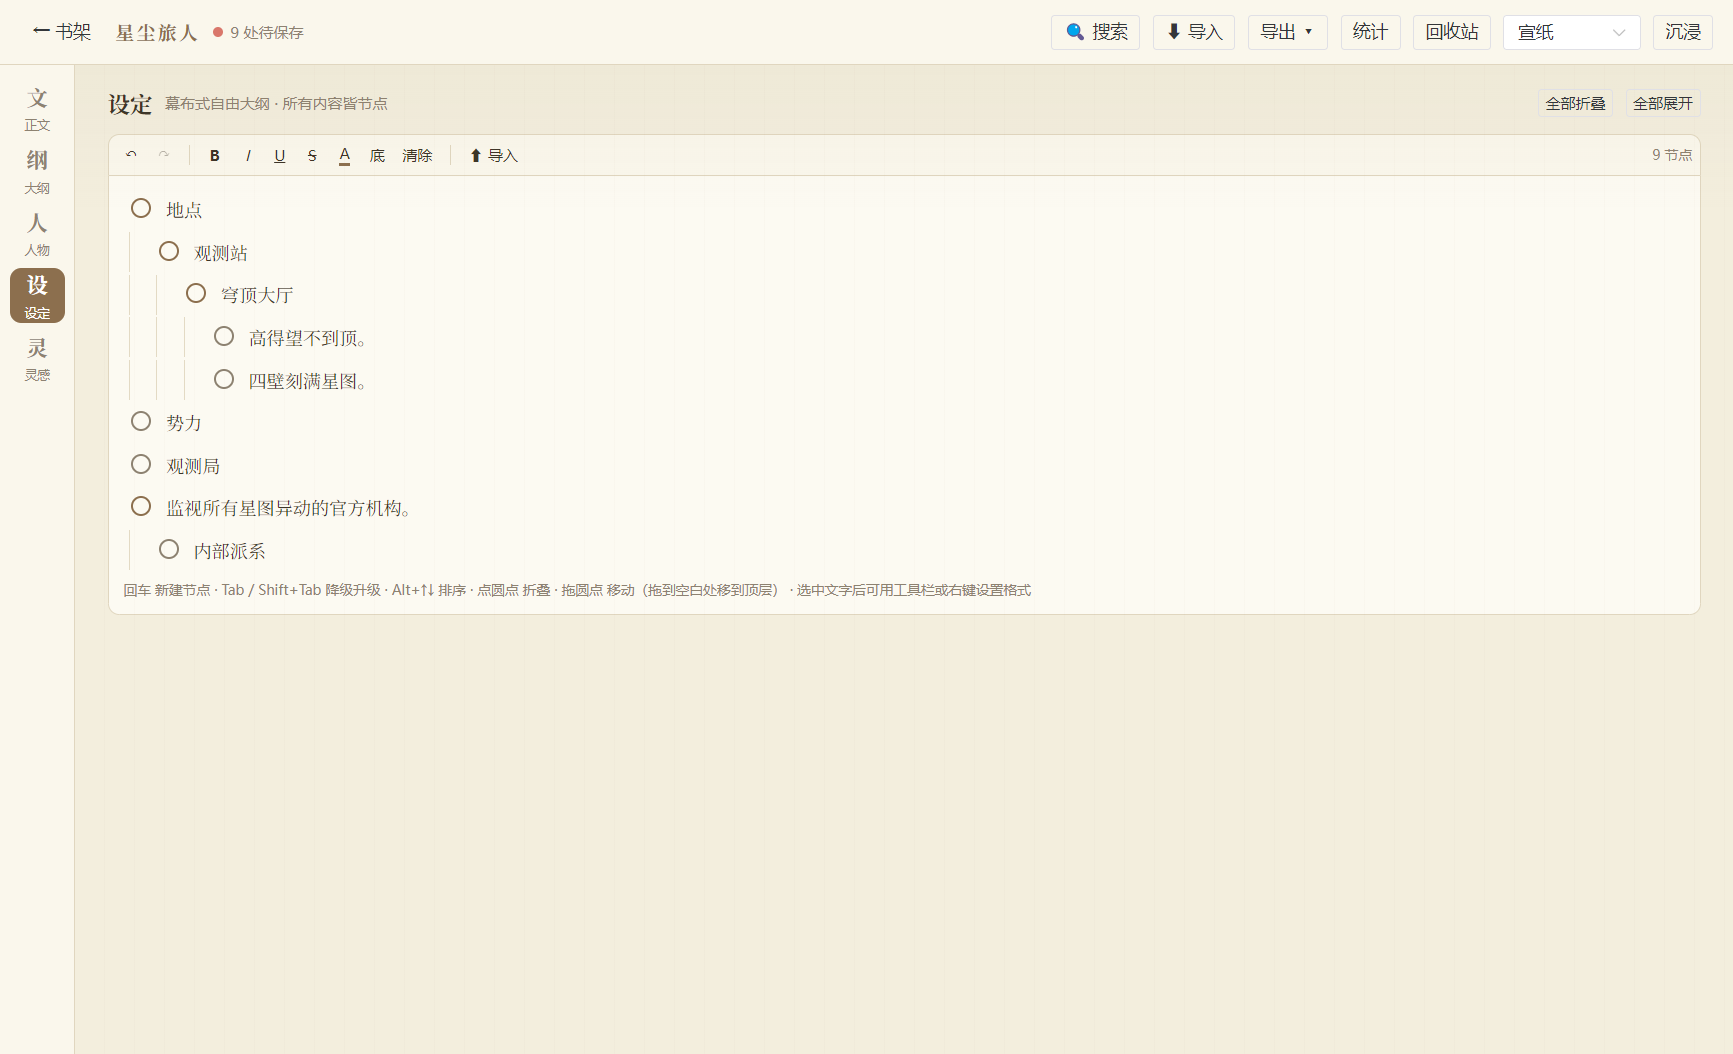
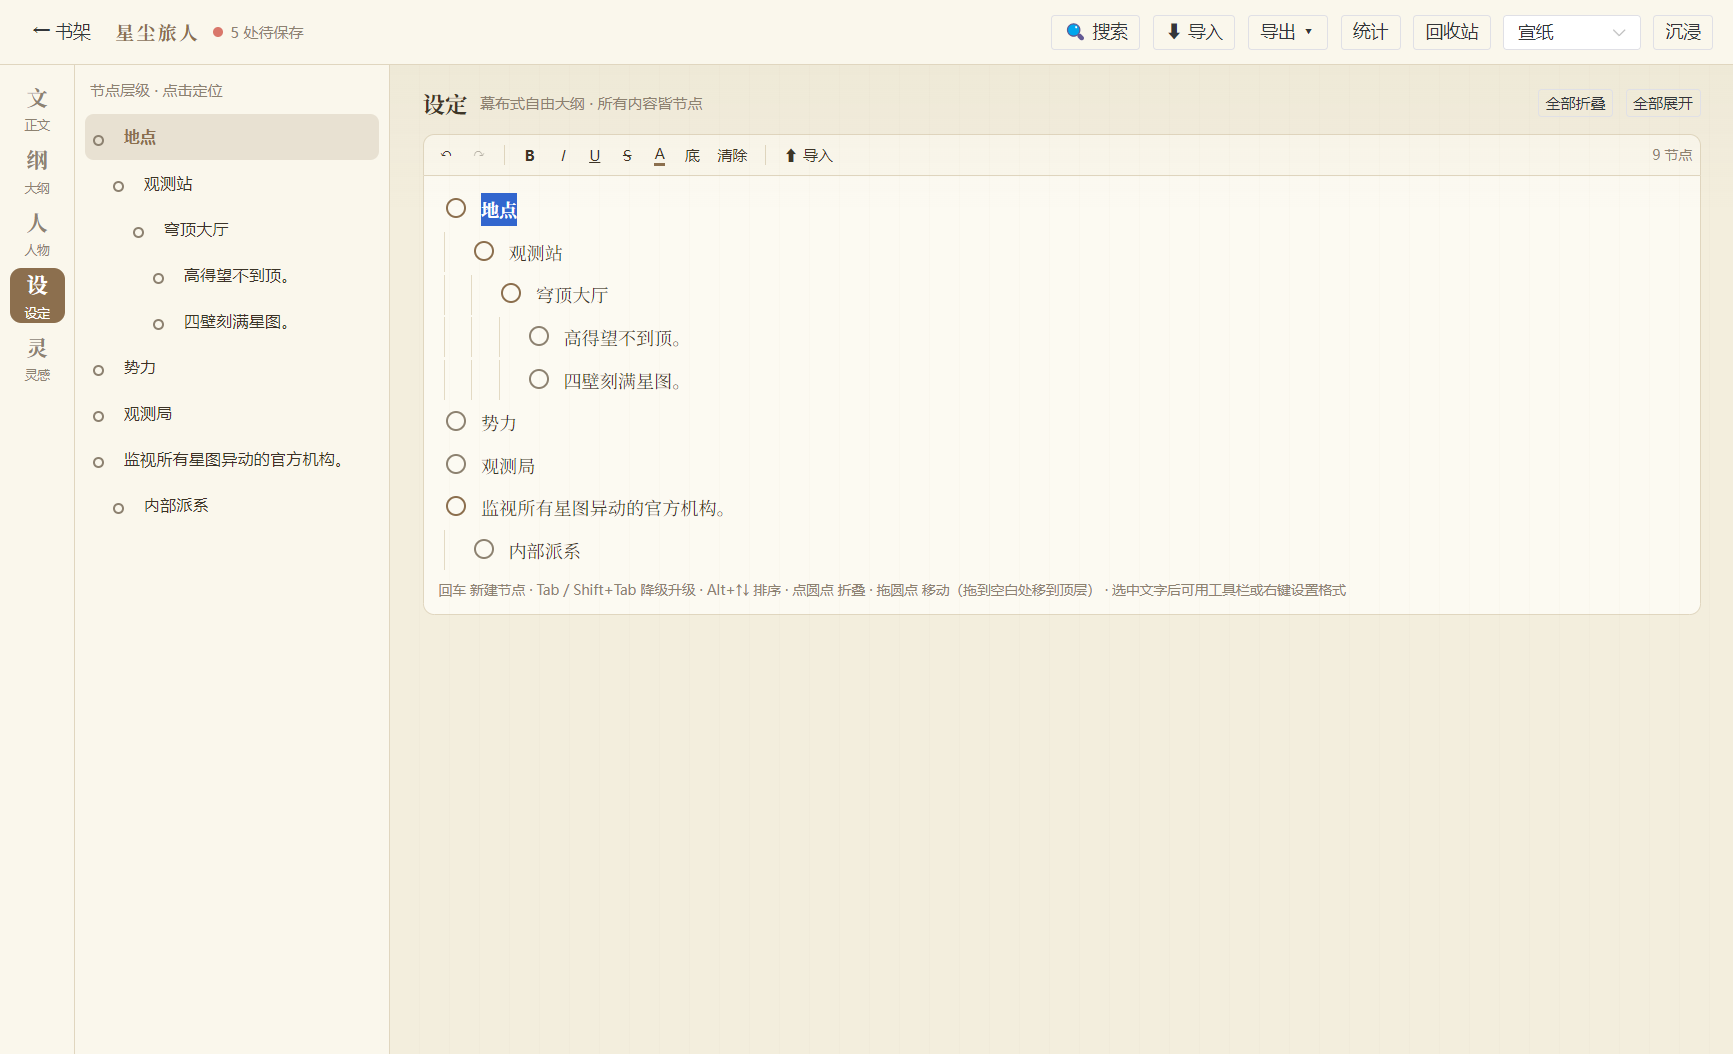
v0.3.1：设定模块侧边栏（节点层级树/点击定位/双向高亮）+ 右键菜单对齐正文（选区保持/剪贴板快捷项）

diff --git a/src/components/MubuView.vue b/src/components/MubuView.vue
@@ -211,6 +211,7 @@ onUpdated(syncAll)
 function onTextFocus(e) {
   const row = e.currentTarget.closest('[data-node]')
   focusedId.value = row?.dataset.node || null
+  ui.mubuSelectedId = row?.dataset.node?.slice(2) || null
 }
 
 /* ---------- 编辑操作 ---------- */
@@ -522,11 +523,15 @@ function onRowCtx(row, e) {
     const range = document.caretRangeFromPoint(e.clientX, e.clientY)
     if (range && rootEl.value?.contains(range.startContainer)) {
       const sel = window.getSelection()
-      sel.removeAllRanges()
-      const r = document.createRange()
-      r.setStart(range.startContainer, range.startOffset)
-      r.collapse(true)
-      sel.addRange(r)
+      // 与正文一致：右键点落在非空选区内 → 保持选区（格式作用于选中文字）；否则光标移到右键处
+      const keep = sel.rangeCount > 0 && !sel.isCollapsed && sel.getRangeAt(0).intersectsNode(range.startContainer)
+      if (!keep) {
+        sel.removeAllRanges()
+        const r = document.createRange()
+        r.setStart(range.startContainer, range.startOffset)
+        r.collapse(true)
+        sel.addRange(r)
+      }
     }
   } catch {
     /* ignore */
@@ -537,6 +542,40 @@ function onRowCtx(row, e) {
   ctx.rowId = row.node.id
   ctx.folded = !!row.node.fold
   ctx.hasChildren = hasChildren(row.node)
+}
+function selectionText() {
+  const sel = window.getSelection()
+  return sel && !sel.isCollapsed ? sel.toString() : ''
+}
+function doCutText() {
+  const t = selectionText()
+  if (!t) return closeCtx()
+  window.native?.clipboardWriteText?.(t)
+  document.execCommand('delete')
+  syncFocusedRow()
+  closeCtx()
+  ver.value++
+}
+function doCopyText() {
+  const t = selectionText()
+  if (!t) return closeCtx()
+  window.native?.clipboardWriteText?.(t)
+  closeCtx()
+}
+async function doPastePlain() {
+  let t = ''
+  try {
+    t = (await window.native?.clipboardReadText?.()) || ''
+  } catch {
+    t = ''
+  }
+  if (t) {
+    pushUndo()
+    document.execCommand('insertText', false, t)
+    syncFocusedRow()
+  }
+  closeCtx()
+  ver.value++
 }
 function closeCtx() {
   ctx.open = false
@@ -651,14 +690,13 @@ onBeforeUnmount(() => {
       <div class="ob-tip">回车 新建节点 · Tab / Shift+Tab 降级升级 · Alt+↑↓ 排序 · 点圆点 折叠 · 拖圆点 移动（拖到空白处移到顶层） · 选中文字后可用工具栏或右键设置格式</div>
 
       <div v-if="ctx.open" class="ob-ctx" :style="{ left: ctx.x + 'px', top: ctx.y + 'px' }" @contextmenu.prevent>
-        <div class="ctx-item" @mousedown.prevent @click="runCtx(() => copyNode(visible.find((r) => r.node.id === ctx.rowId)))"><span>复制节点</span></div>
-        <div class="ctx-item" @mousedown.prevent @click="runCtx(() => copyNode(visible.find((r) => r.node.id === ctx.rowId), true))"><span>剪切节点</span></div>
-        <div class="ctx-item" :class="{ disabled: !clip }" @mousedown.prevent @click="!clip && runCtx(() => pasteClip(false))"><span>粘贴为同级</span></div>
-        <div class="ctx-item" :class="{ disabled: !clip }" @mousedown.prevent @click="!clip && runCtx(() => pasteClip(true))"><span>粘贴为子节点</span></div>
+        <div class="ctx-item" :class="{ disabled: !selectionText() }" @mousedown.prevent @click="doCutText()"><span>剪切</span><span class="hint">Ctrl+X</span></div>
+        <div class="ctx-item" :class="{ disabled: !selectionText() }" @mousedown.prevent @click="doCopyText()"><span>复制</span><span class="hint">Ctrl+C</span></div>
+        <div class="ctx-item" @mousedown.prevent @click="doPastePlain()"><span>粘贴为纯文本</span><span class="hint">Ctrl+V</span></div>
         <div class="ctx-sep" />
         <div class="ctx-item" @mousedown.prevent @click="runCtx(() => fmt('bold'))"><span>加粗</span><span class="hint">Ctrl+B</span></div>
-        <div class="ctx-item" @mousedown.prevent @click="runCtx(() => fmt('italic'))"><span>斜体</span></div>
-        <div class="ctx-item" @mousedown.prevent @click="runCtx(() => fmt('underline'))"><span>下划线</span></div>
+        <div class="ctx-item" @mousedown.prevent @click="runCtx(() => fmt('italic'))"><span>斜体</span><span class="hint">Ctrl+I</span></div>
+        <div class="ctx-item" @mousedown.prevent @click="runCtx(() => fmt('underline'))"><span>下划线</span><span class="hint">Ctrl+U</span></div>
         <div class="ctx-item" @mousedown.prevent @click="runCtx(() => fmt('strikeThrough'))"><span>删除线</span></div>
         <div class="ob-ctx-colors" @mousedown.prevent>
           <span style="font-size: 11px; color: var(--text-dim)">颜色</span>
@@ -672,8 +710,13 @@ onBeforeUnmount(() => {
         <div class="ctx-sep" />
         <div class="ctx-item" @mousedown.prevent @click="runCtx(() => indent(visible.find((r) => r.node.id === ctx.rowId)))"><span>降级</span><span class="hint">Tab</span></div>
         <div class="ctx-item" @mousedown.prevent @click="runCtx(() => outdent(visible.find((r) => r.node.id === ctx.rowId)))"><span>升级</span><span class="hint">Shift+Tab</span></div>
-        <div class="ctx-item" @mousedown.prevent @click="runCtx(() => moveRow(visible.find((r) => r.node.id === ctx.rowId), -1))"><span>上移</span></div>
-        <div class="ctx-item" @mousedown.prevent @click="runCtx(() => moveRow(visible.find((r) => r.node.id === ctx.rowId), 1))"><span>下移</span></div>
+        <div class="ctx-item" @mousedown.prevent @click="runCtx(() => moveRow(visible.find((r) => r.node.id === ctx.rowId), -1))"><span>上移</span><span class="hint">Alt+↑</span></div>
+        <div class="ctx-item" @mousedown.prevent @click="runCtx(() => moveRow(visible.find((r) => r.node.id === ctx.rowId), 1))"><span>下移</span><span class="hint">Alt+↓</span></div>
+        <div class="ctx-sep" />
+        <div class="ctx-item" @mousedown.prevent @click="runCtx(() => copyNode(visible.find((r) => r.node.id === ctx.rowId)))"><span>复制节点</span></div>
+        <div class="ctx-item" @mousedown.prevent @click="runCtx(() => copyNode(visible.find((r) => r.node.id === ctx.rowId), true))"><span>剪切节点</span></div>
+        <div class="ctx-item" :class="{ disabled: !clip }" @mousedown.prevent @click="!clip && runCtx(() => pasteClip(false))"><span>粘贴为同级</span></div>
+        <div class="ctx-item" :class="{ disabled: !clip }" @mousedown.prevent @click="!clip && runCtx(() => pasteClip(true))"><span>粘贴为子节点</span></div>
         <div class="ctx-sep" />
         <div class="ctx-item" @mousedown.prevent @click="runCtx(() => addSibling(visible.find((r) => r.node.id === ctx.rowId)))"><span>新建同级节点</span></div>
         <div class="ctx-item" @mousedown.prevent @click="runCtx(() => addChild(visible.find((r) => r.node.id === ctx.rowId)))"><span>新建子节点</span></div>

diff --git a/src/components/MubuTree.vue b/src/components/MubuTree.vue
@@ -1,0 +1,61 @@
+<script setup>
+import { computed } from 'vue'
+import { useWorkStore } from '../stores/work'
+import { useUiStore } from '../stores/ui'
+
+const work = useWorkStore()
+const ui = useUiStore()
+
+const visible = computed(() => {
+  const live = work.liveMubu()
+  const byParent = new Map()
+  for (const n of live) {
+    const p = n.parentId || null
+    if (!byParent.has(p)) byParent.set(p, [])
+    byParent.get(p).push(n)
+  }
+  const out = []
+  const walk = (list, depth) => {
+    for (const n of list) {
+      out.push({ node: n, depth })
+      if (!n.fold) walk(byParent.get(n.id) || [], depth + 1)
+    }
+  }
+  walk(byParent.get(null) || [], 0)
+  return out
+})
+
+function select(n) {
+  ui.loreFocusId = n.id
+}
+function isActive(n) {
+  return ui.mubuSelectedId === n.id || ui.loreFocusId === n.id
+}
+</script>
+
+<template>
+  <div style="display: flex; flex-direction: column; height: 100%">
+    <div class="side-head">
+      <span style="font-size: 12px; color: var(--text-dim)">节点层级 · 点击定位</span>
+    </div>
+    <div class="side-list">
+      <div
+        v-for="r in visible"
+        :key="r.node.id"
+        class="side-item"
+        :class="{ active: isActive(r.node) }"
+        :style="{ paddingLeft: 6 + r.depth * 16 + 'px' }"
+        role="button"
+        tabindex="0"
+        @click="select(r.node)"
+        @keydown.enter="select(r.node)"
+      >
+        <span class="ob-dot" :class="{ folded: r.node.fold }" />
+        <span style="overflow: hidden; text-overflow: ellipsis; white-space: nowrap">{{ r.node.text || '（空）' }}</span>
+      </div>
+      <p v-if="!visible.length" style="font-size: 12px; color: var(--text-dim); padding: 10px">
+        设定库为空。在右侧输入内容，回车新建节点。
+      </p>
+    </div>
+  </div>
+</template>

diff --git a/src/components/Workbench.vue b/src/components/Workbench.vue
@@ -14,6 +14,7 @@ import EditorPane from './EditorPane.vue'
 import OutlineCenter from './OutlineCenter.vue'
 import CharacterCenter from './CharacterCenter.vue'
 import MubuView from './MubuView.vue'
+import MubuTree from './MubuTree.vue'
 import SnippetCenter from './SnippetCenter.vue'
 import RightPanel from './RightPanel.vue'
 
@@ -134,10 +135,11 @@ onBeforeUnmount(() => window.removeEventListener('keydown', onKeydown))
         </div>
       </div>
 
-      <div v-if="!ui.focusMode && work.tab !== 'lore'" class="side-panel">
+      <div v-if="!ui.focusMode" class="side-panel">
         <ChapterTree v-if="work.tab === 'chapters'" />
         <OutlineList v-else-if="work.tab === 'outline'" />
         <CharacterList v-else-if="work.tab === 'characters'" />
+        <MubuTree v-else-if="work.tab === 'lore'" />
         <SnippetList v-else-if="work.tab === 'snippets'" />
       </div>
 

diff --git a/src/styles/themes.css b/src/styles/themes.css
@@ -1009,6 +1009,19 @@ body,
 .ob-row {
   transition: background 0.15s;
 }
+.ob-dot {
+  flex: none;
+  width: 9px;
+  height: 9px;
+  border-radius: 50%;
+  border: 2px solid var(--text-dim);
+  margin-right: 8px;
+  margin-top: 5px;
+}
+.ob-dot.folded {
+  background: var(--accent);
+  border-color: var(--accent);
+}
 .ob-kind {
   flex: none;
   margin-left: 8px;

diff --git a/src/stores/ui.js b/src/stores/ui.js
@@ -16,6 +16,7 @@ export const useUiStore = defineStore('ui', {
     focusMode: false,
     dbError: false,
     loreFocusId: null,
+    mubuSelectedId: null,
     autosave: { pending: 0, saving: false, lastSavedAt: 0 },
     searchOpen: false,
     statsOpen: false,
